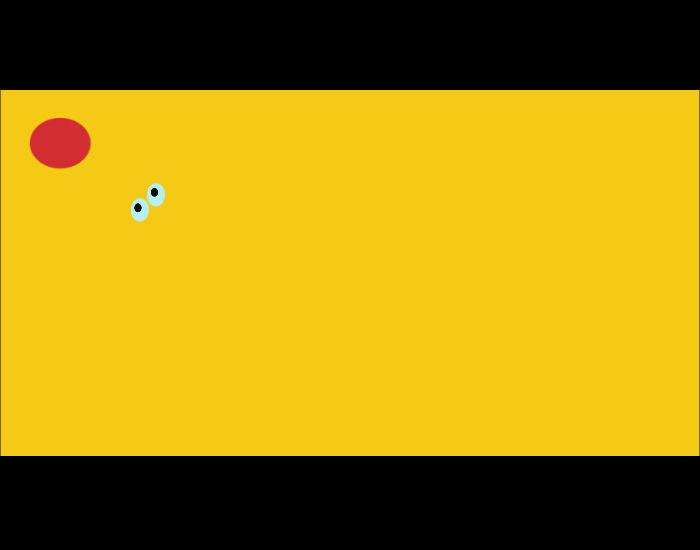
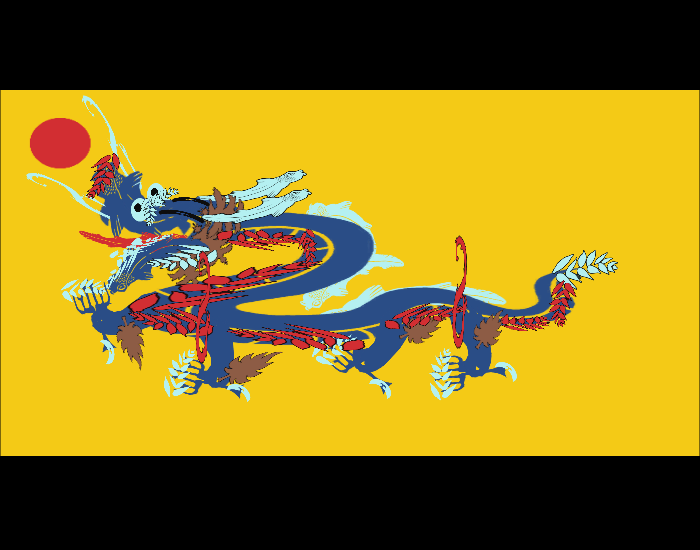
feat: 修正爬虫生成的一些图片错误,整理中国的旗帜,新增来自骑砍论坛网友的旗帜

Changed region(s): [[0.09, 0.2164, 0.9, 0.7418], [0.12, 0.1545, 0.15, 0.2164], [0.03, 0.3091, 0.09, 0.34]]

diff --git a/README.md b/README.md
@@ -58,13 +58,44 @@ Mount &amp; Blade II: Bannerlord Banner Collection
 11.146.146.1608.1341.824.834.1.0.0.505.144.146.202.1195.764.764.0.1.0.505.144.146.202.2426.764.764.0.1.-90.505.116.116.340.172.764.586.0.1.0.505.116.116.75.172.630.674.0.1.0.505.116.116.75.172.628.808.0.1.0.505.116.116.75.172.902.630.0.1.0.505.116.116.75.172.908.778.0.1.0.505.116.116.75.124.895.876.0.1.-16.505.116.116.31.124.890.954.0.1.-32.505.116.116.35.124.656.955.0.1.38.505.116.116.35.124.808.1021.0.1.-72.505.116.116.35.124.638.930.0.1.28.505.116.116.43.73.710.1019.0.1.60.505.116.116.21.66.636.950.0.1.28.505.116.116.43.39.744.1025.0.1.-1.505.116.116.43.39.676.991.0.1.-1.505.116.116.59.39.914.531.0.1.-1.505.116.116.59.39.616.561.0.1.-1.505.116.116.59.113.620.580.0.1.-1.316.116.116.500.616.764.758.0.1.0.316.145.146.488.596.764.764.0.1.0.138.125.146.481.393.746.809.0.1.0.340.144.146.179.196.779.607.0.1.3
 ```
 
-## 秦
+## 中国
+
+
+
+
+![](./screenshot/6cab5e32f88faa001841e582cb22655d.png)
+```
+11.142.142.3000.1500.764.764.1.0.0.505.83.83.253.138.766.655.1.0.0.503.83.145.430.462.762.684.1.0.0.320.84.148.120.97.716.758.1.1.90.320.84.145.120.97.812.758.1.0.-90.324.84.145.347.132.764.788.1.0.0.516.84.14.60.60.807.643.1.1.-44.516.84.14.-60.60.721.643.1.1.40.516.84.14.-60.60.665.589.1.1.14.516.84.14.60.60.863.589.1.1.-14.516.84.14.110.110.764.549.1.0.0.500.84.145.540.540.764.687.1.0.0.500.84.145.500.500.764.687.1.0.0.500.84.142.450.450.764.687.1.0.0.423.84.145.551.480.764.687.1.0.0.150.83.145.-130.184.703.969.1.0.0.150.83.145.130.184.825.969.1.0.0.322.144.145.-222.183.702.936.1.0.-67.322.144.145.-222.183.826.936.1.0.67.503.84.145.130.130.764.900.1.0.0.503.84.84.80.80.764.900.1.0.0.503.84.145.70.70.764.900.1.0.0.500.125.145.100.100.764.900.1.0.0.150.83.145.130.184.624.939.1.0.-98.150.83.145.130.184.604.924.1.0.-98.150.83.145.130.184.584.909.1.0.-98.150.83.145.130.184.564.894.1.0.-98.159.83.145.260.230.648.884.1.0.-21.150.83.145.-130.184.904.939.1.0.98.150.83.145.-130.184.924.924.1.0.98.150.83.145.-130.184.944.909.1.0.98.150.83.145.-130.184.964.894.1.0.98.159.83.145.-260.230.880.884.1.0.21.509.83.145.30.24.764.902.1.0.0
+```
+
+![](./screenshot/52bb52ef62e22e29f0e93c669f0edd4f.png)
+```
+11.68.48.1836.1836.768.788.1.0.-30.527.84.84.339.364.784.784.1.1.-75.505.48.48.228.247.596.736.1.1.-64.503.84.84.73.70.608.896.1.1.-64.510.84.84.363.356.844.824.1.1.-48.510.84.84.109.488.694.692.1.1.42.510.84.84.99.245.746.672.1.1.42.510.84.84.65.205.734.636.1.1.15.510.84.84.50.194.768.642.1.1.133.505.84.84.50.100.726.668.1.1.133
+```
+
+
+![](./screenshot/c049f7314c198816e5b7f334484c09ee.png)
+```
+11.68.48.1836.1836.768.788.1.0.-29.516.84.84.400.400.764.764.1.1.0.516.48.48.300.300.764.771.1.1.0.504.84.84.53.27.734.792.1.1.40.505.84.84.53.22.797.784.1.1.-72.505.84.84.20.22.789.759.1.1.-42.505.84.84.80.17.768.834.1.1.0.505.84.84.18.22.807.829.1.1.-42.505.84.84.53.22.762.759.1.1.0.504.84.84.18.20.727.830.1.1.-45.510.84.84.417.130.341.752.1.1.0.510.84.84.417.130.1187.752.1.1.0.510.84.84.489.130.377.884.1.1.0.510.84.84.155.120.140.817.1.1.90.510.84.84.489.130.1151.884.1.1.0.510.84.84.155.120.1388.817.1.1.90
+```
+
+### 朝代系列
+
 
 ![](./screenshot/banner.png)
 ```
 11.116.116.1304.983.2667.622.1.0.0.511.142.116.-191.76.876.718.0.0.-69.511.142.116.-249.-112.762.578.0.0.180.510.142.116.-69.-194.760.618.0.0.180.510.142.116.-134.-137.762.714.0.0.90.510.142.116.-134.-137.760.792.0.0.90.510.142.116.-86.-139.757.698.0.0.90.510.142.116.-86.-197.762.567.0.0.90.511.142.116.-191.74.867.728.0.0.-70.511.142.116.-191.-65.662.718.0.0.249.427.142.116.-74.-88.762.718.0.0.179.427.142.116.-81.-96.684.654.0.0.146.427.142.116.-87.-88.839.658.0.0.221.427.142.116.-162.-158.760.806.0.0.0.510.142.116.-86.-197.884.800.0.0.90.510.142.116.-86.-197.638.804.0.0.90.511.142.116.-191.-65.650.716.0.0.249.510.142.116.-86.-185.760.842.0.0.90.510.142.116.-86.-185.760.756.0.0.90.510.142.116.-615.-309.770.1115.0.0.180.510.142.116.-615.-309.770.1041.0.0.180.510.142.116.-615.-309.768.959.0.0.180.510.142.116.-615.-309.768.425.0.0.180.510.142.116.-565.-309.487.700.0.0.90.510.142.116.-565.-309.1043.684.0.0.90.510.143.116.-565.-1875.2437.684.0.0.90
 ```
 
+![](./screenshot/8e4f036455b6f82c857785eb8456310d.png)
+```
+11.142.143.1428.1126.764.764.1.0.0.510.142.142.154.184.646.606.1.1.0.510.142.142.130.174.630.724.1.1.0.510.142.142.260.194.571.716.0.0.90.510.142.142.160.194.636.836.1.1.0.510.142.142.260.189.712.721.1.1.90.510.142.142.292.198.780.676.1.1.90.510.142.142.504.212.965.766.1.1.90.510.142.142.218.194.872.529.1.1.0.510.142.142.218.194.872.666.1.1.0.510.142.142.218.194.872.800.1.1.0.510.142.142.107.197.775.861.1.1.83.510.142.142.102.195.762.947.1.1.80.510.142.142.94.195.757.979.1.1.76
+```
+
+![](./screenshot/c7b2f63fb9eaee65c495328620332f37.png)
+```
+1.143.143.1829.730.764.764.1.0.0.159.3.116.240.118.574.602.1.1.13.159.3.116.183.225.766.666.0.1.140.159.3.116.422.225.884.818.0.1.186.159.3.116.240.225.764.764.0.1.202.155.146.116.1017.391.764.764.0.0.0.200.3.116.125.104.1238.756.1.0.-127.503.83.116.125.104.190.505.0.1.0.215.154.116.104.107.441.746.1.1.27.215.154.116.104.107.489.706.1.1.40.154.3.116.42.225.223.612.0.1.247.154.3.116.42.225.295.503.0.1.213.215.154.116.104.107.517.648.1.1.82.159.3.116.240.118.584.640.1.1.13.159.146.116.240.416.351.638.0.0.-14.159.83.116.240.118.337.702.0.1.-4.200.83.116.73.95.273.571.1.0.121.159.146.116.240.225.375.732.0.1.202.503.3.116.37.48.381.608.0.1.0.503.3.116.37.48.349.638.0.1.0.503.116.116.15.18.345.634.0.1.0.503.116.116.15.18.378.603.0.1.0.426.116.116.24.96.433.648.0.1.78.426.116.116.21.78.451.620.0.1.83.200.3.116.70.139.433.734.1.0.81.200.3.116.51.51.367.642.1.0.143.200.3.116.51.51.399.612.1.0.258.200.3.116.32.139.353.710.0.0.-78.200.3.116.42.139.313.752.0.1.-204.119.146.116.95.152.501.920.0.0.182.119.146.116.95.152.325.848.0.0.100.119.146.116.95.152.1011.899.0.0.189.119.146.116.95.152.832.902.0.0.136.212.146.116.95.152.786.949.0.0.51.212.146.116.95.152.1005.963.0.0.94.212.146.116.95.152.481.981.0.0.74.212.146.116.95.152.263.848.0.0.19.200.3.116.95.89.955.965.0.0.-47.200.3.116.95.89.744.916.0.0.-114.200.3.116.95.89.431.963.0.0.-66.200.3.116.95.65.237.798.0.0.-139.200.83.116.72.401.521.790.1.0.-82.200.83.116.52.197.600.698.1.0.-102.200.83.116.52.74.684.716.1.0.-204.213.154.116.70.102.914.874.1.1.292.200.83.116.72.169.411.860.1.0.65.200.83.116.62.278.660.892.1.0.77.200.83.116.56.169.920.848.1.1.-67.200.83.116.90.72.1191.826.1.1.-140.200.83.116.117.44.1119.862.1.1.-17.154.83.116.42.225.987.802.1.1.181.154.83.116.42.225.475.832.1.1.181.213.154.116.70.94.1047.876.1.1.326.213.154.116.70.141.569.950.1.1.294.213.154.116.70.113.333.904.1.1.198.426.3.116.35.52.1083.957.0.1.50.426.3.116.35.52.832.991.0.1.50.426.3.116.35.52.549.999.0.1.60.426.3.116.35.52.287.920.0.1.15
+```
 
 ## 星球大战
 
@@ -92,6 +123,20 @@ Mount &amp; Blade II: Bannerlord Banner Collection
 ![](./screenshot/banner%20(16).png)
 ```
 11.35.35.1900.1900.768.768.1.0.0.344.7.116.-459.421.764.722.1.1.0.528.116.116.-124.100.628.992.1.1.0.510.116.116.-100.82.628.1069.1.1.90.510.116.116.-100.82.722.1069.1.1.90.510.116.116.-100.82.722.990.1.1.90.510.116.116.-100.82.769.948.1.1.0.510.116.116.-100.82.769.1115.1.1.0.510.116.116.-100.82.769.1030.1.1.0.527.116.116.135.100.904.1069.1.1.0.527.116.116.135.100.898.983.1.1.180.503.35.116.119.56.975.1007.0.1.180.503.35.116.73.56.858.1053.0.1.180
+```
+
+## xxhub
+
+![](./screenshot/banner%20(18).png)
+```
+11.116.116.598.1836.2075.999.1.0.-30.529.127.116.-127.100.519.756.1.1.0.503.127.116.-95.104.604.754.1.1.0.510.127.116.-113.74.672.758.1.1.88.427.127.127.-64.29.688.732.1.1.222.503.116.116.-67.80.604.754.1.1.0.505.128.128.-81.102.766.764.1.1.0.505.116.116.-59.130.766.788.1.1.0.505.38.116.-252.118.937.762.1.1.0.453.116.116.82.-102.856.760.1.1.180.527.116.116.108.-80.932.762.1.1.270.529.116.116.110.100.1007.760.1.1.180
+```
+
+## AK47
+
+![](./screenshot/banner%20(20).png)
+```
+11.2.2.1741.1836.768.788.1.0.-29.510.14.14.359.154.1063.724.1.1.0.510.14.14.359.132.908.696.1.1.0.504.14.14.262.103.503.762.1.1.-173.504.14.14.130.180.439.792.1.1.-73.504.14.14.219.121.487.784.1.1.27.504.14.14.209.64.602.750.1.1.22.510.14.14.103.436.878.862.1.1.-75.510.14.14.103.444.862.790.1.1.-80.510.14.14.103.326.696.774.1.1.-104.510.14.14.103.436.852.738.1.1.-83.510.14.14.367.384.812.712.1.1.0.504.14.14.333.88.904.736.1.1.-182.510.14.14.101.140.750.776.1.1.-180.510.14.14.93.150.796.738.1.1.-94.510.14.14.70.203.634.716.1.1.-102.510.14.14.75.204.868.680.1.1.-182.510.14.14.80.132.1201.690.1.1.-90.510.14.14.48.132.1095.708.1.1.-90.510.14.14.117.170.662.732.1.1.-177.510.14.14.80.104.1193.702.1.1.-94
 ```
 
 
@@ -180,11 +225,6 @@ Mount &amp; Blade II: Bannerlord Banner Collection
 11.13.40.1536.1536.768.768.1.0.0.503.138.40.740.740.768.768.0.0.0.505.40.40.2000.150.768.768.0.0.40.505.40.40.2000.150.768.768.0.0.135.505.40.40.1536.25.768.708.0.0.0.505.40.40.1536.25.828.768.0.0.90.505.40.40.1536.25.768.828.0.0.0.505.40.40.1536.25.708.768.0.0.90.505.83.40.1536.100.768.768.0.0.90.505.83.40.1536.100.768.768.0.0.0
 ```
 
-
-![](./screenshot/52bb52ef62e22e29f0e93c669f0edd4f.png)
-```
-11.68.48.1836.1836.768.788.1.0.-30.527.84.84.339.364.784.784.1.1.-75.505.48.48.228.247.596.736.1.1.-64.503.84.84.73.70.608.896.1.1.-64.510.84.84.363.356.844.824.1.1.-48.510.84.84.109.488.694.692.1.1.42.510.84.84.99.245.746.672.1.1.42.510.84.84.65.205.734.636.1.1.15.510.84.84.50.194.768.642.1.1.133.505.84.84.50.100.726.668.1.1.133
-```
 
 
 ![](./screenshot/fc0548e395bd57fb2e342f5fe142a080.png)
@@ -345,11 +385,6 @@ Mount &amp; Blade II: Bannerlord Banner Collection
 ```
 
 
-![](./screenshot/c7b2f63fb9eaee65c495328620332f37.png)
-```
-1.143.143.1829.730.764.764.1.0.0.159.3.116.240.118.574.602.1.1.13.159.3.116.183.225.766.666.0.1.140.159.3.116.422.225.884.818.0.1.186.159.3.116.240.225.764.764.0.1.202.155.146.116.1017.391.764.764.0.0.0.200.3.116.125.104.1238.756.1.0.-127.503.83.116.125.104.190.505.0.1.0.215.154.116.104.107.441.746.1.1.27.215.154.116.104.107.489.706.1.1.40.154.3.116.42.225.223.612.0.1.247.154.3.116.42.225.295.503.0.1.213.215.154.116.104.107.517.648.1.1.82.159.3.116.240.118.584.640.1.1.13.159.146.116.240.416.351.638.0.0.-14.159.83.116.240.118.337.702.0.1.-4.200.83.116.73.95.273.571.1.0.121.159.146.116.240.225.375.732.0.1.202.503.3.116.37.48.381.608.0.1.0.503.3.116.37.48.349.638.0.1.0.503.116.116.15.18.345.634.0.1.0.503.116.116.15.18.378.603.0.1.0.426.116.116.24.96.433.648.0.1.78.426.116.116.21.78.451.620.0.1.83.200.3.116.70.139.433.734.1.0.81.200.3.116.51.51.367.642.1.0.143.200.3.116.51.51.399.612.1.0.258.200.3.116.32.139.353.710.0.0.-78.200.3.116.42.139.313.752.0.1.-204.119.146.116.95.152.501.920.0.0.182.119.146.116.95.152.325.848.0.0.100.119.146.116.95.152.1011.899.0.0.189.119.146.116.95.152.832.902.0.0.136.212.146.116.95.152.786.949.0.0.51.212.146.116.95.152.1005.963.0.0.94.212.146.116.95.152.481.981.0.0.74.212.146.116.95.152.263.848.0.0.19.200.3.116.95.89.955.965.0.0.-47.200.3.116.95.89.744.916.0.0.-114.200.3.116.95.89.431.963.0.0.-66.200.3.116.95.65.237.798.0.0.-139.200.83.116.72.401.521.790.1.0.-82.200.83.116.52.197.600.698.1.0.-102.200.83.116.52.74.684.716.1.0.-204.213.154.116.70.102.914.874.1.1.292.200.83.116.72.169.411.860.1.0.65.200.83.116.62.278.660.892.1.0.77.200.83.116.56.169.920.848.1.1.-67.200.83.116.90.72.1191.826.1.1.-140.200.83.116.117.44.1119.862.1.1.-17.154.83.116.42.225.987.802.1.1.181.154.83.116.42.225.475.832.1.1.181.213.154.116.70.94.1047.876.1.1.326.213.154.116.70.141.569.950.1.1.294.213.154.116.70.113.333.904.1.1.198.426.3.116.35.52.1083.957.0.1.50.426.3.116.35.52.832.991.0.1.50.426.3.116.35.52.549.999.0.1.60.426.3.116.35.52.287.920.0.1.15
-```
-
 
 ![](./screenshot/0c097d24dd42b204afa18f0c9abdcc49.png)
 ```
@@ -412,11 +447,6 @@ Mount &amp; Blade II: Bannerlord Banner Collection
 ```
 
 
-![](./screenshot/8e4f036455b6f82c857785eb8456310d.png)
-```
-11.142.143.1428.1126.764.764.1.0.0.510.142.142.154.184.646.606.1.1.0.510.142.142.130.174.630.724.1.1.0.510.142.142.260.194.571.716.0.0.90.510.142.142.160.194.636.836.1.1.0.510.142.142.260.189.712.721.1.1.90.510.142.142.292.198.780.676.1.1.90.510.142.142.504.212.965.766.1.1.90.510.142.142.218.194.872.529.1.1.0.510.142.142.218.194.872.666.1.1.0.510.142.142.218.194.872.800.1.1.0.510.142.142.107.197.775.861.1.1.83.510.142.142.102.195.762.947.1.1.80.510.142.142.94.195.757.979.1.1.76
-```
-
 
 ![](./screenshot/c9aba913954c6397e23a1a5cf71bc46c.png)
 ```
@@ -446,12 +476,6 @@ Mount &amp; Blade II: Bannerlord Banner Collection
 ![](./screenshot/c5b7ec67c2695c3ea345edc58a908803.png)
 ```
 11.71.71.1859.1801.698.792.1.0.-30.514.94.94.374.327.850.682.1.1.0.506.71.71.356.401.798.762.1.1.-227.505.71.71.377.401.676.588.1.1.-103.504.94.94.157.638.773.722.1.1.-180.505.94.94.115.296.601.674.1.1.-170.505.94.94.62.96.573.554.1.1.-271.505.71.71.111.526.565.726.1.1.-149.505.71.71.94.401.445.493.1.1.-90.505.94.94.22.2414.786.1004.1.1.-90.505.94.94.22.2414.744.1041.1.1.-90
-```
-
-
-![](./screenshot/c049f7314c198816e5b7f334484c09ee.png)
-```
-11.68.48.1836.1836.768.788.1.0.-29.516.84.84.400.400.764.764.1.1.0.516.48.48.300.300.764.771.1.1.0.504.84.84.53.27.734.792.1.1.40.505.84.84.53.22.797.784.1.1.-72.505.84.84.20.22.789.759.1.1.-42.505.84.84.80.17.768.834.1.1.0.505.84.84.18.22.807.829.1.1.-42.505.84.84.53.22.762.759.1.1.0.504.84.84.18.20.727.830.1.1.-45.510.84.84.417.130.341.752.1.1.0.510.84.84.417.130.1187.752.1.1.0.510.84.84.489.130.377.884.1.1.0.510.84.84.155.120.140.817.1.1.90.510.84.84.489.130.1151.884.1.1.0.510.84.84.155.120.1388.817.1.1.90
 ```
 
 
@@ -580,18 +604,6 @@ Mount &amp; Blade II: Bannerlord Banner Collection
 ![](./screenshot/d214ec1f8f5293a2945741696a42e2d6.png)
 ```
 11.47.40.1836.1836.768.788.1.0.0.505.35.116.20.20.764.849.1.1.0.434.119.144.180.212.894.494.1.1.-103.503.116.116.160.160.854.644.1.0.0.503.121.116.150.150.854.644.1.1.0.434.119.144.180.212.634.494.1.0.103.503.116.116.160.160.674.644.1.1.0.503.121.116.150.150.674.644.1.1.0.503.91.91.120.120.900.986.1.1.0.101.116.143.669.573.764.844.1.1.0.305.91.91.386.202.922.934.1.1.-29.301.128.116.294.459.572.830.1.1.18.505.116.116.65.20.630.996.1.1.108.505.116.116.42.24.888.979.1.1.-29.503.142.144.208.152.764.384.1.1.0.340.84.144.294.459.764.384.1.1.0.340.84.144.104.170.849.559.1.1.0.340.84.144.104.170.679.559.1.1.0.316.84.14.200.200.764.844.1.1.0.140.142.116.64.140.724.844.1.0.0.505.145.116.30.129.790.833.1.1.24.505.145.116.30.162.764.849.1.1.0.105.35.116.30.30.780.812.1.1.24.505.35.116.30.30.764.849.1.1.0.504.145.142.30.30.814.892.1.1.55.505.145.116.7.49.804.886.1.1.24.105.35.116.30.30.804.862.1.1.24.105.35.116.30.30.790.834.1.1.24.423.93.132.230.306.764.844.1.1.0
-```
-
-
-![](./screenshot/6cab5e32f88faa001841e582cb22655d.png)
-```
-11.142.142.3000.1500.764.764.1.0.0.505.83.83.253.138.766.655.1.0.0.503.83.145.430.462.762.684.1.0.0.320.84.148.120.97.716.758.1.1.90.320.84.145.120.97.812.758.1.0.-90.324.84.145.347.132.764.788.1.0.0.516.84.14.60.60.807.643.1.1.-44.516.84.14.-60.60.721.643.1.1.40.516.84.14.-60.60.665.589.1.1.14.516.84.14.60.60.863.589.1.1.-14.516.84.14.110.110.764.549.1.0.0.500.84.145.540.540.764.687.1.0.0.500.84.145.500.500.764.687.1.0.0.500.84.142.450.450.764.687.1.0.0.423.84.145.551.480.764.687.1.0.0.150.83.145.-130.184.703.969.1.0.0.150.83.145.130.184.825.969.1.0.0.322.144.145.-222.183.702.936.1.0.-67.322.144.145.-222.183.826.936.1.0.67.503.84.145.130.130.764.900.1.0.0.503.84.84.80.80.764.900.1.0.0.503.84.145.70.70.764.900.1.0.0.500.125.145.100.100.764.900.1.0.0.150.83.145.130.184.624.939.1.0.-98.150.83.145.130.184.604.924.1.0.-98.150.83.145.130.184.584.909.1.0.-98.150.83.145.130.184.564.894.1.0.-98.159.83.145.260.230.648.884.1.0.-21.150.83.145.-130.184.904.939.1.0.98.150.83.145.-130.184.924.924.1.0.98.150.83.145.-130.184.944.909.1.0.98.150.83.145.-130.184.964.894.1.0.98.159.83.145.-260.230.880.884.1.0.21.509.83.145.30.24.764.902.1.0.0
-```
-
-
-![](./screenshot/6cab5e32f88faa001841e582cb22655d.png)
-```
-11.142.142.3000.1500.764.764.1.0.0.505.83.83.253.138.766.655.1.0.0.503.83.145.430.462.762.684.1.0.0.320.84.148.120.97.716.758.1.1.90.320.84.145.120.97.812.758.1.0.-90.324.84.145.347.132.764.788.1.0.0.516.84.14.60.60.807.643.1.1.-44.516.84.14.-60.60.721.643.1.1.40.516.84.14.-60.60.665.589.1.1.14.516.84.14.60.60.863.589.1.1.-14.516.84.14.110.110.764.549.1.0.0.500.84.145.540.540.764.687.1.0.0.500.84.145.500.500.764.687.1.0.0.500.84.142.450.450.764.687.1.0.0.423.84.145.551.480.764.687.1.0.0.150.83.145.-130.184.703.969.1.0.0.150.83.145.130.184.825.969.1.0.0.322.144.145.-222.183.702.936.1.0.-67.322.144.145.-222.183.826.936.1.0.67.503.84.145.130.130.764.900.1.0.0.503.84.84.80.80.764.900.1.0.0.503.84.145.70.70.764.900.1.0.0.500.125.145.100.100.764.900.1.0.0.150.83.145.130.184.624.939.1.0.-98.150.83.145.130.184.604.924.1.0.-98.150.83.145.130.184.584.909.1.0.-98.150.83.145.130.184.564.894.1.0.-98.159.83.145.260.230.648.884.1.0.-21.150.83.145.-130.184.904.939.1.0.98.150.83.145.-130.184.924.924.1.0.98.150.83.145.-130.184.944.909.1.0.98.150.83.145.-130.184.964.894.1.0.98.159.83.145.-260.230.880.884.1.0.21.509.83.145.30.24.764.902.1.0.0
 ```
 
 
@@ -1137,22 +1149,20 @@ Mount &amp; Blade II: Bannerlord Banner Collection
 ```
 
 
-![](./screenshot/c049f7314c198816e5b7f334484c09ee.png)
+![](./screenshot/banner%20(19).png)
 ```
-11.68.48.1836.1836.768.788.1.0.-29.516.84.84.400.400.764.764.1.1.0.516.48.48.300.300.764.771.1.1.0.504.84.84.53.27.734.792.1.1.40.505.84.84.53.22.797.784.1.1.-72.505.84.84.20.22.789.759.1.1.-42.505.84.84.80.17.768.834.1.1.0.505.84.84.18.22.807.829.1.1.-42.505.84.84.53.22.762.759.1.1.0.504.84.84.18.20.727.830.1.1.-45.510.84.84.417.130.341.752.1.1.0.510.84.84.417.130.1187.752.1.1.0.510.84.84.489.130.377.884.1.1.0.510.84.84.155.120.140.817.1.1.90.510.84.84.489.130.1151.884.1.1.0.510.84.84.155.120.1388.817.1.1.90
-```
-
-
-
-![](./screenshot/8e4f036455b6f82c857785eb8456310d.png)
-```
-11.142.143.1428.1126.764.764.1.0.0.510.142.142.154.184.646.606.1.1.0.510.142.142.130.174.630.724.1.1.0.510.142.142.260.194.571.716.0.0.90.510.142.142.160.194.636.836.1.1.0.510.142.142.260.189.712.721.1.1.90.510.142.142.292.198.780.676.1.1.90.510.142.142.504.212.965.766.1.1.90.510.142.142.218.194.872.529.1.1.0.510.142.142.218.194.872.666.1.1.0.510.142.142.218.194.872.800.1.1.0.510.142.142.107.197.775.861.1.1.83.510.142.142.102.195.762.947.1.1.80.510.142.142.94.195.757.979.1.1.76
+1.40.142.2234.1686.764.567.1.1.90.505.6.6.-452.1452.764.1178.1.0.-90.140.82.40.-448.391.764.764.1.1.0
 ```
 
 
-
-![](./screenshot/6b1cc7d45bb5e34c88c37ea5c70a5b05.png)
+![](./screenshot/banner%20(21).png)
 ```
-2.12.19.1642.1405.764.1034.1.0.90.424.132.116.173.210.194.331.1.1.0.424.132.116.173.210.394.331.1.1.0.424.132.116.173.210.594.331.1.1.0.424.132.116.173.210.784.331.1.1.0.424.132.116.173.210.1184.331.1.1.0.424.132.116.173.210.984.331.1.1.0.424.132.116.173.210.1376.331.1.1.0.424.132.116.173.210.115.519.1.1.0.424.132.116.173.210.297.517.1.1.0.424.132.116.173.210.485.517.1.1.0.424.132.116.173.210.683.517.1.1.0.424.132.116.173.210.879.517.1.1.0.424.132.116.173.210.1071.517.1.1.0.424.132.116.173.210.1271.517.1.1.0.424.132.116.173.210.1450.517.1.1.0.424.132.116.173.210.1376.711.1.1.0.424.132.116.173.210.984.711.1.1.0.424.132.116.173.210.784.711.1.1.0.424.132.116.173.210.594.711.1.1.0.424.132.116.173.210.394.711.1.1.0.424.132.116.173.210.194.711.1.1.0.424.132.116.173.210.1184.711.1.1.0.424.132.116.173.210.1450.899.1.1.0.424.132.116.173.210.1271.899.1.1.0.424.132.116.173.210.1071.899.1.1.0.424.132.116.173.210.879.899.1.1.0.424.132.116.173.210.683.899.1.1.0.424.132.116.173.210.485.899.1.1.0.424.132.116.173.210.297.899.1.1.0.424.132.116.173.210.115.899.1.1.0.424.132.116.173.210.1376.1091.1.1.0.424.132.116.173.210.1184.1091.1.1.0.424.132.116.173.210.984.1091.1.1.0.424.132.116.173.210.784.1091.1.1.0.424.132.116.173.210.594.1091.1.1.0.424.132.116.173.210.394.1091.1.1.0.424.132.116.173.210.194.1091.1.1.0.424.132.116.173.210.1450.1272.1.1.0.424.132.116.173.210.1271.1272.1.1.0.424.132.116.173.210.1071.1272.1.1.0.424.132.116.173.210.879.1272.1.1.0.424.132.116.173.210.683.1272.1.1.0.424.132.116.173.210.485.1272.1.1.0.424.132.116.173.210.297.1272.1.1.0.424.132.116.173.210.115.1272.1.1.0
+11.127.127.0.0.764.764.0.0.0.504.116.127.1574.942.364.761.0.0.270.504.141.127.1574.942.1174.761.0.0.90.504.139.127.1574.894.764.1085.0.0.0.504.131.132.1574.894.764.391.0.0.180.505.83.83.1947.140.769.764.0.0.38.505.83.83.1947.140.769.764.0.0.-38
+```
+
+
+![](./screenshot/banner%20(22).png)
+```
+11.35.83.1836.1836.768.788.1.0.-30.510.143.116.1414.300.764.764.0.0.0.510.143.116.1415.300.764.764.0.0.90.427.143.116.80.80.634.554.0.0.140.427.143.116.80.80.634.644.0.0.40.427.143.116.40.40.655.674.0.0.160.427.143.116.40.40.655.524.0.1.20.504.143.116.88.40.653.599.0.1.90.510.143.116.145.82.665.600.0.1.90.510.83.116.215.82.673.600.0.1.90.504.83.116.40.40.630.685.0.1.72.504.83.116.40.40.630.515.0.0.111.427.143.116.80.80.895.554.0.1.220.427.143.116.80.80.895.644.0.1.320.427.143.116.40.40.873.674.0.1.200.427.143.116.40.40.873.524.0.0.340.504.143.116.88.40.876.599.0.0.270.510.143.116.145.82.864.600.0.0.270.510.83.116.215.82.856.600.0.0.270.504.83.116.40.40.899.685.0.0.288.504.83.116.40.40.899.515.0.1.249.427.143.116.80.80.634.884.0.0.140.427.143.116.80.80.634.974.0.0.40.427.143.116.40.40.655.1004.0.0.160.427.143.116.40.40.655.854.0.1.20.504.143.116.88.40.653.929.0.1.90.510.143.116.145.82.665.930.0.1.90.510.83.116.215.82.673.930.0.1.90.504.83.116.40.40.630.1015.0.1.72.504.83.116.40.40.630.845.0.0.111.427.143.116.80.80.895.884.0.1.220.427.143.116.80.80.895.974.0.1.320.427.143.116.40.40.873.1004.0.1.200.427.143.116.40.40.873.854.0.0.340.504.143.116.88.40.876.929.0.0.270.510.143.116.145.82.864.930.0.0.270.510.83.116.215.82.856.930.0.0.270.504.83.116.40.40.899.1015.0.0.288.504.83.116.40.40.899.845.0.1.249.427.143.116.70.75.600.554.0.1.270.427.143.116.70.75.600.641.0.1.270.427.143.116.49.56.608.563.0.1.270.427.143.116.49.56.608.635.0.1.270.427.143.116.70.75.600.884.0.1.270.427.143.116.70.75.600.971.0.1.270.427.143.116.49.56.608.893.0.1.270.427.143.116.49.56.608.965.0.1.270.427.143.116.70.75.929.554.0.0.90.427.143.116.70.75.929.641.0.0.90.427.143.116.49.56.921.563.0.0.90.427.143.116.49.56.921.635.0.0.90.427.143.116.70.75.929.884.0.0.90.427.143.116.70.75.929.971.0.0.90.427.143.116.49.56.921.893.0.0.90.427.143.116.49.56.921.965.0.0.90
 ```
 
